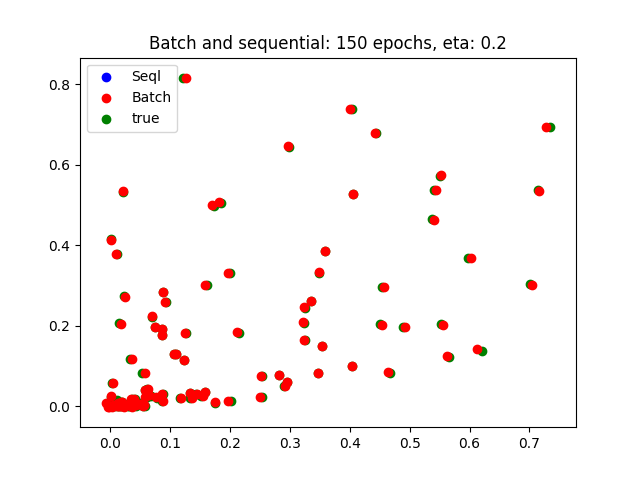
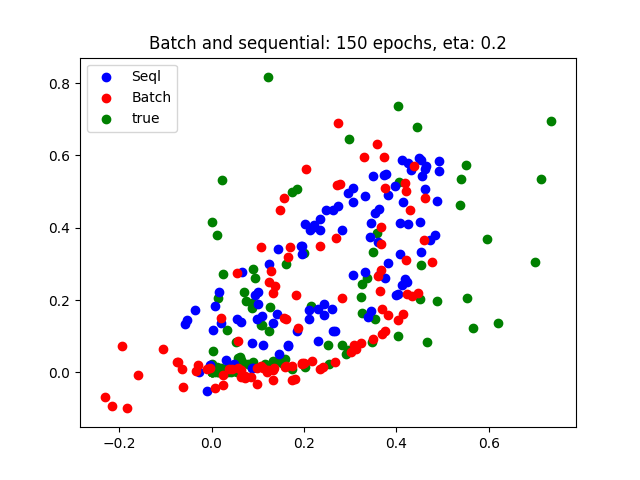
cl 2d

diff --git a/rbf_2d.py b/rbf_2d.py
@@ -92,17 +92,46 @@ def seq_learn(x,label,mu,t, eta):
 
     return f, W
 
+def dist_(x, W, r=.5):
+
+    temp = []
+    for w in W:
+        d = x-w
+        d = d[0]**2 + d[1]**2
+        temp.append(d)
+
+    d = temp
+    in_radius = (d-np.min(d))<r
+
+    """
+    temp = np.subtract.outer(x,W)
+    d = temp**2
+    in_radius = np.abs(d-np.min(d)).T<r
+    """
+    return d, in_radius
+
+def clearning(x,mu_cl,t=50,eta=0.2,r=.5):
+    a = np.arange(x.shape[0])
+    for i in range(t):
+        x_samp = x[np.random.choice(a),:]
+        d, in_radius = dist_(x_samp, mu_cl,r=r)
+        mu_cl[np.argmin(d),:] += eta*(x_samp-mu_cl[np.argmin(d),:])
+    return mu_cl
+
 def assignment1_ballist():
     train_data, train_labels, test_data, test_labels = loadData()
 
-    no_of_nodes = 20
+    no_of_nodes = 5
 
     mu = []
     ind = np.arange(0,train_data.shape[0])
     for i in range(no_of_nodes):
         index = np.random.choice(ind)
         mu.append(train_data[index,:])
+
     mu = np.array(mu)
+    mu_cp = np.copy(mu)
+    mu_cl = clearning(train_data, mu_cp)
 
     t = 150
     eta = 0.2
@@ -110,14 +139,19 @@ def assignment1_ballist():
     f_hat_b, W_b = batch_train(train_data, train_labels, mu)
     f_hat_s, W_s = seq_learn(train_data, train_labels, mu, t, eta)
 
+    f_hat_b_cl, W_b_cl = batch_train(train_data, train_labels, mu)
+    f_hat_s_cl, W_s_cl = seq_learn(train_data, train_labels, mu, t, eta)
+
     #output space
     fig = plt.figure()
     tr = plt.scatter(train_labels[:,0],train_labels[:,1], c='g', label="true")
     f_h_s = plt.scatter(f_hat_s[:,0],f_hat_s[:,1], c='b', label="Seql")
     f_h_b = plt.scatter(f_hat_b[:,0], f_hat_b[:,1], c='r', label="Batch")
+    f_h_s_cl = plt.scatter(f_hat_s[:,0],f_hat_s[:,1], c='b', label="Seql cl")
+    f_h_b_cl = plt.scatter(f_hat_b[:,0], f_hat_b[:,1], c='r', label="Batch cl")
     plt.title('Batch and sequential: 150 epochs, eta: 0.2')
     plt.legend(handles=[f_h_s, f_h_b, tr])
-    fig.savefig('report/plots/2d/first_basic_both_no_CL_output')
+    #fig.savefig('report/plots/2d/first_basic_both_no_CL_output')
 
     plt.show()
 
@@ -125,9 +159,10 @@ def assignment1_ballist():
     fig2 = plt.figure()
     train_data = plt.scatter(train_data[:,0],train_data[:,1], c='g', label="data")
     nds = plt.scatter(mu[:,0],mu[:,1], c='b', label="Nodes")
-    plt.legend(handles=[train_data, nds])
+    nds_cl = plt.scatter(mu_cl[:,0],mu_cl[:,1], c='r', label="Nodes CL")
+    plt.legend(handles=[train_data, nds, nds_cl])
     plt.title("Training data and nodes")
-    fig2.savefig('report/plots/2d/input_basic_both_no_cl')
+    #fig2.savefig('report/plots/2d/input_basic_both_cl_INPUTAOSHAS')
 
     plt.show()
 
